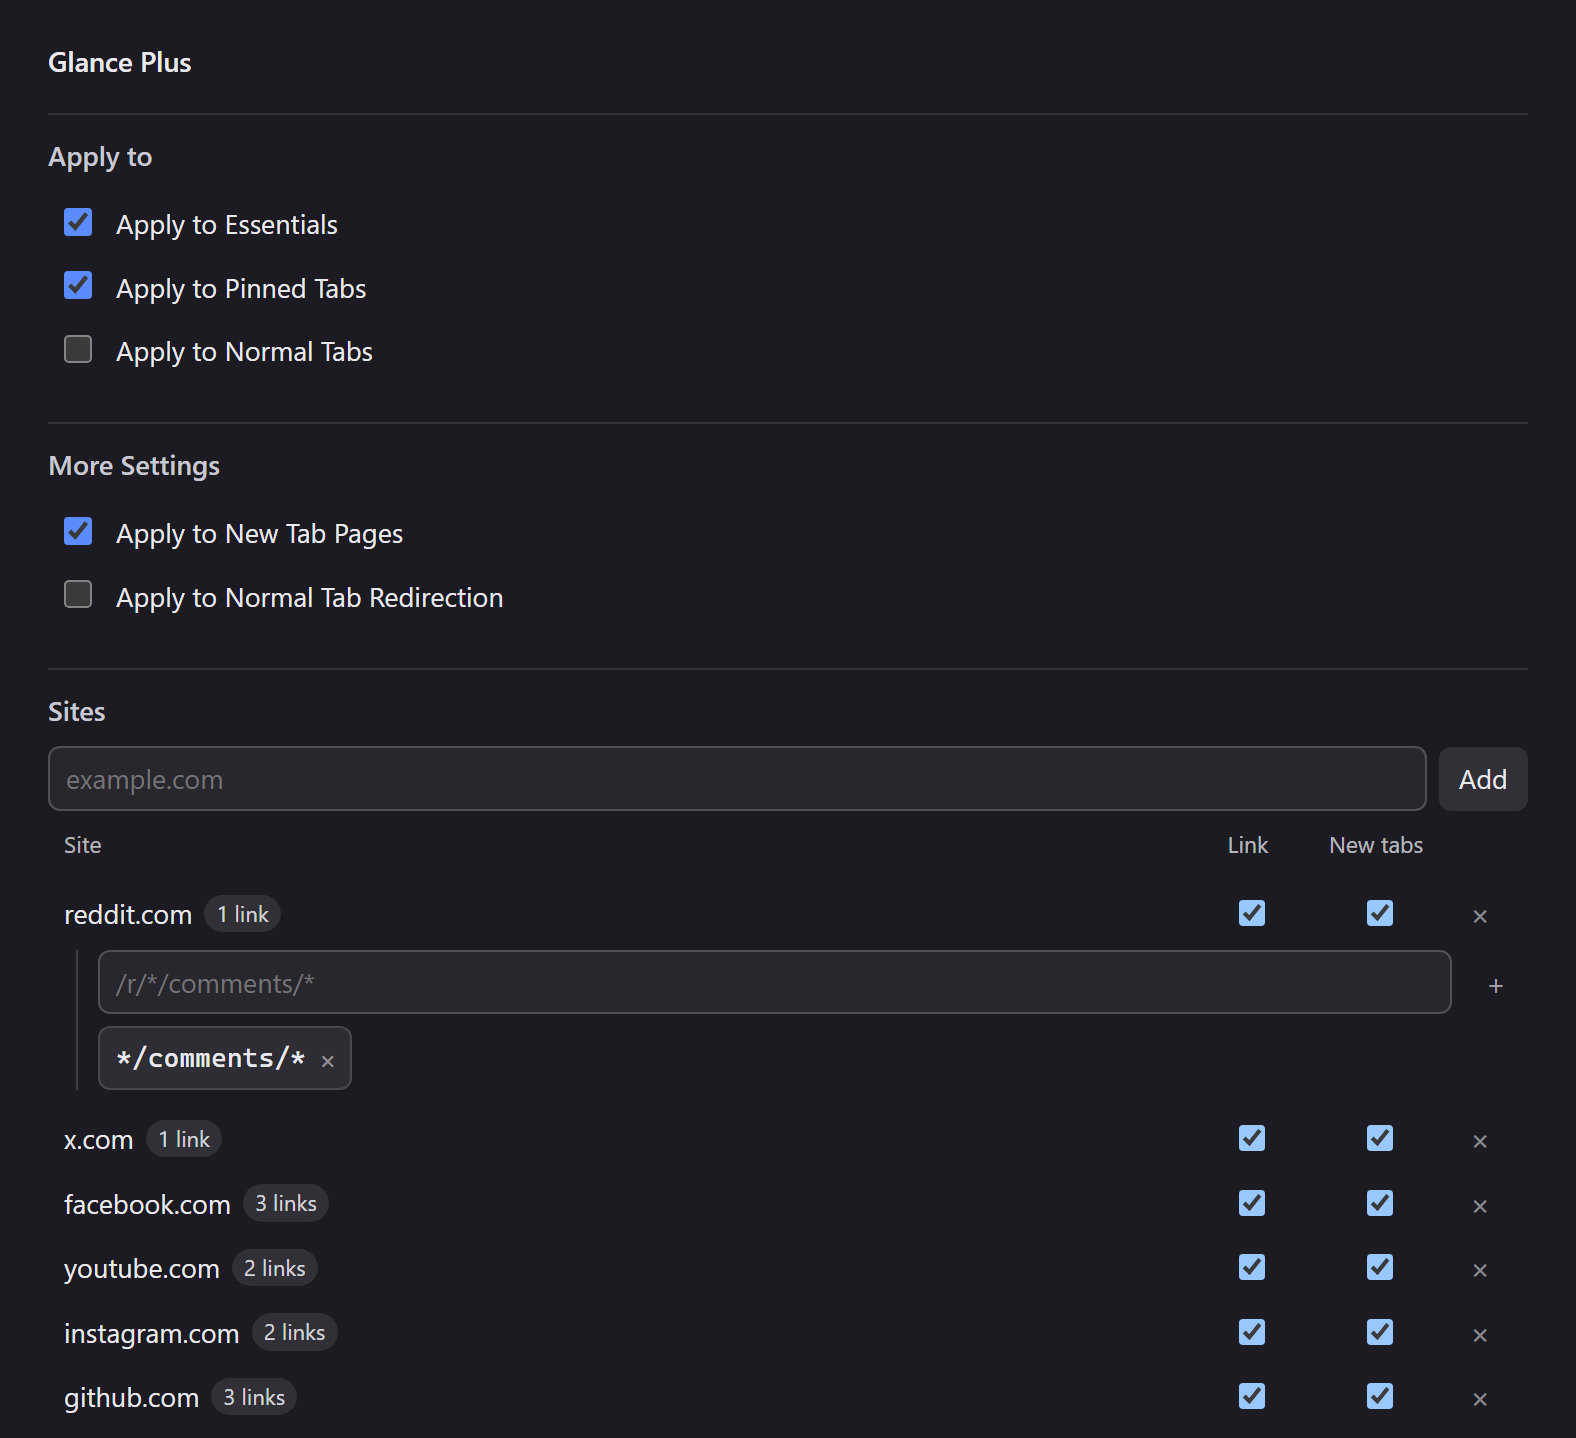
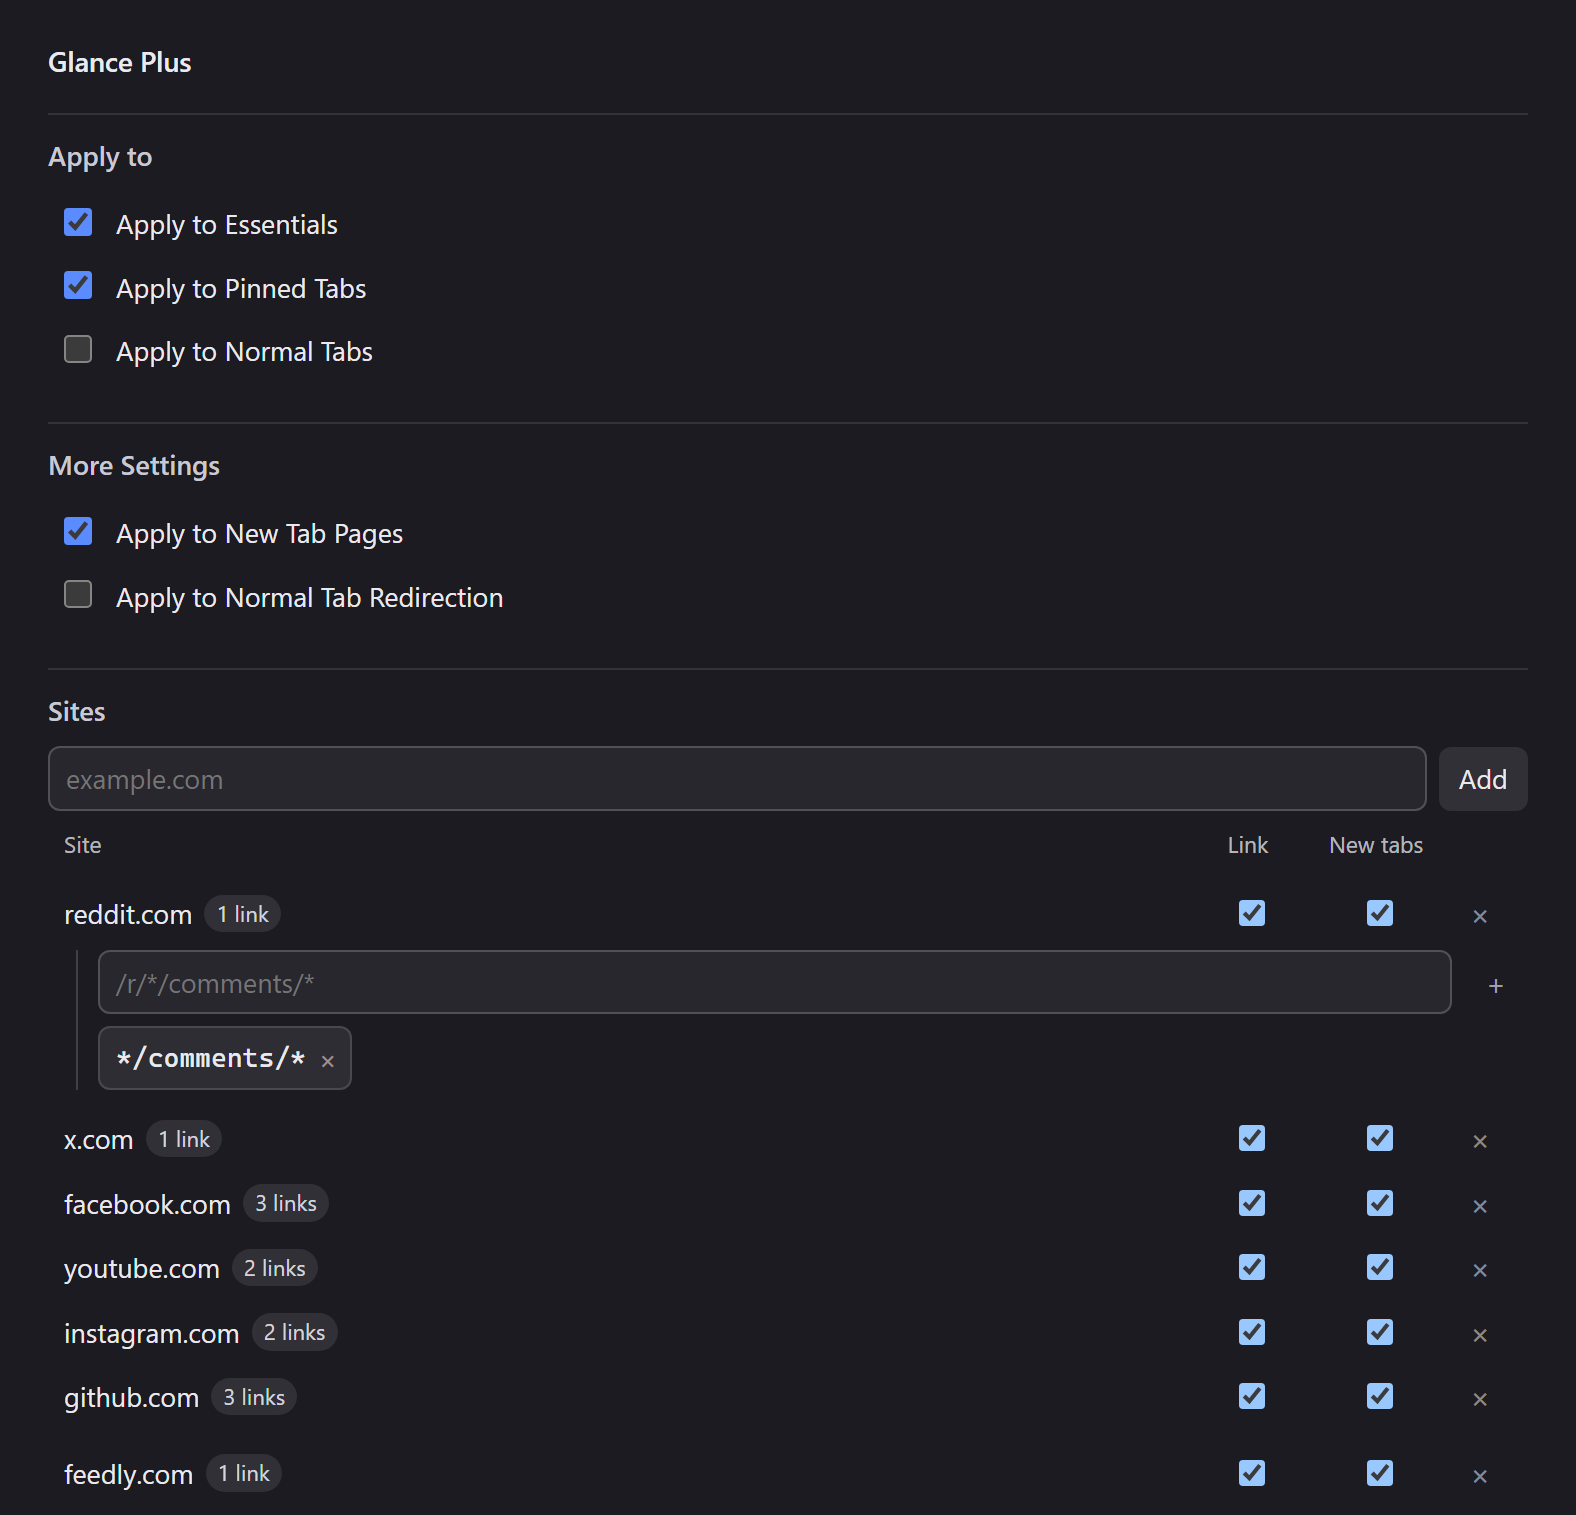
feat: ship a feedly row
An article opened in Feedly's own reader is the page worth a Glance;
the feed list, discovery and saved views are not. The row narrows to
/i/entry/*, which is the address Feedly publishes as feedlyUrl.

diff --git a/scripts/zen-glance-plus.uc.js b/scripts/zen-glance-plus.uc.js
@@ -92,6 +92,8 @@
     { host: "youtube.com", tabs: true, links: true, paths: ["/watch*", "/shorts/*"] },
     { host: "instagram.com", tabs: true, links: true, paths: ["/p/*", "/reel/*"] },
     { host: "github.com", tabs: true, links: true, paths: ["*/issues/*", "*/pull/*", "*/discussions/*"] },
+    // Feedly's own reader view for an article: https://feedly.com/i/entry/<entryId>
+    { host: "feedly.com", tabs: true, links: true, paths: ["/i/entry/*"] },
   ];
 
   const PREF = {

diff --git a/README.md b/README.md
@@ -52,7 +52,7 @@ Add a domain, and its row has two switches: **Link** for clicks that would repla
 
 Changes save as you make them and apply to the next page you open.
 
-The table starts populated: reddit.com, x.com, facebook.com, youtube.com, instagram.com and github.com, each row narrowed to that site's content pages — a post, a status, a video, an issue, a comment thread — so a fresh install glances something before you touch a setting. Those rows are written once, on the first start after install. Delete one and it stays deleted; the defaults never come back.
+The table starts populated: reddit.com, x.com, facebook.com, youtube.com, instagram.com, github.com and feedly.com, each row narrowed to that site's content pages — a post, a status, a video, an issue, a comment thread, an article in Feedly's own reader — so a fresh install glances something before you touch a setting. Those rows are written once, on the first start after install. Delete one and it stays deleted; the defaults never come back.
 
 ### Link patterns
 
@@ -61,6 +61,7 @@ Click a site name and the row opens its patterns. With none, every link on the s
 ```
 /r/*/comments/*      a post from a subreddit listing
 */comments/*         a post opened from a profile or the front page
+/i/entry/*           an article opened in Feedly's reader
 ```
 
 Patterns match the address path and query, never the domain, because the row already supplies the domain. `*` stands for anything, including `/`. A pattern beginning with `/` is anchored at the path root; one beginning with `*` matches anywhere; one typed without either is read as `*pattern`. A pasted address keeps only its path. Matching is case-sensitive.

diff --git a/CHANGELOG.md b/CHANGELOG.md
@@ -1,5 +1,9 @@
 # Changelog
 
+## 1.0.10 — 2026-10-27
+
+- Feedly joins the shipped sites. Its row glances an article opened in Feedly's own reader (`/i/entry/*`) and leaves the feed list, discovery and saved views as ordinary tabs, so reading one item from a feed no longer costs you the list behind it.
+
 ## 1.0.9 — 2026-10-27
 
 - The README now describes the settings panel as it is — a **Link** switch before **New tabs**, a square glyph that adds a pattern, pills the height of their field — and the settings screenshot is regenerated from the current markup.
